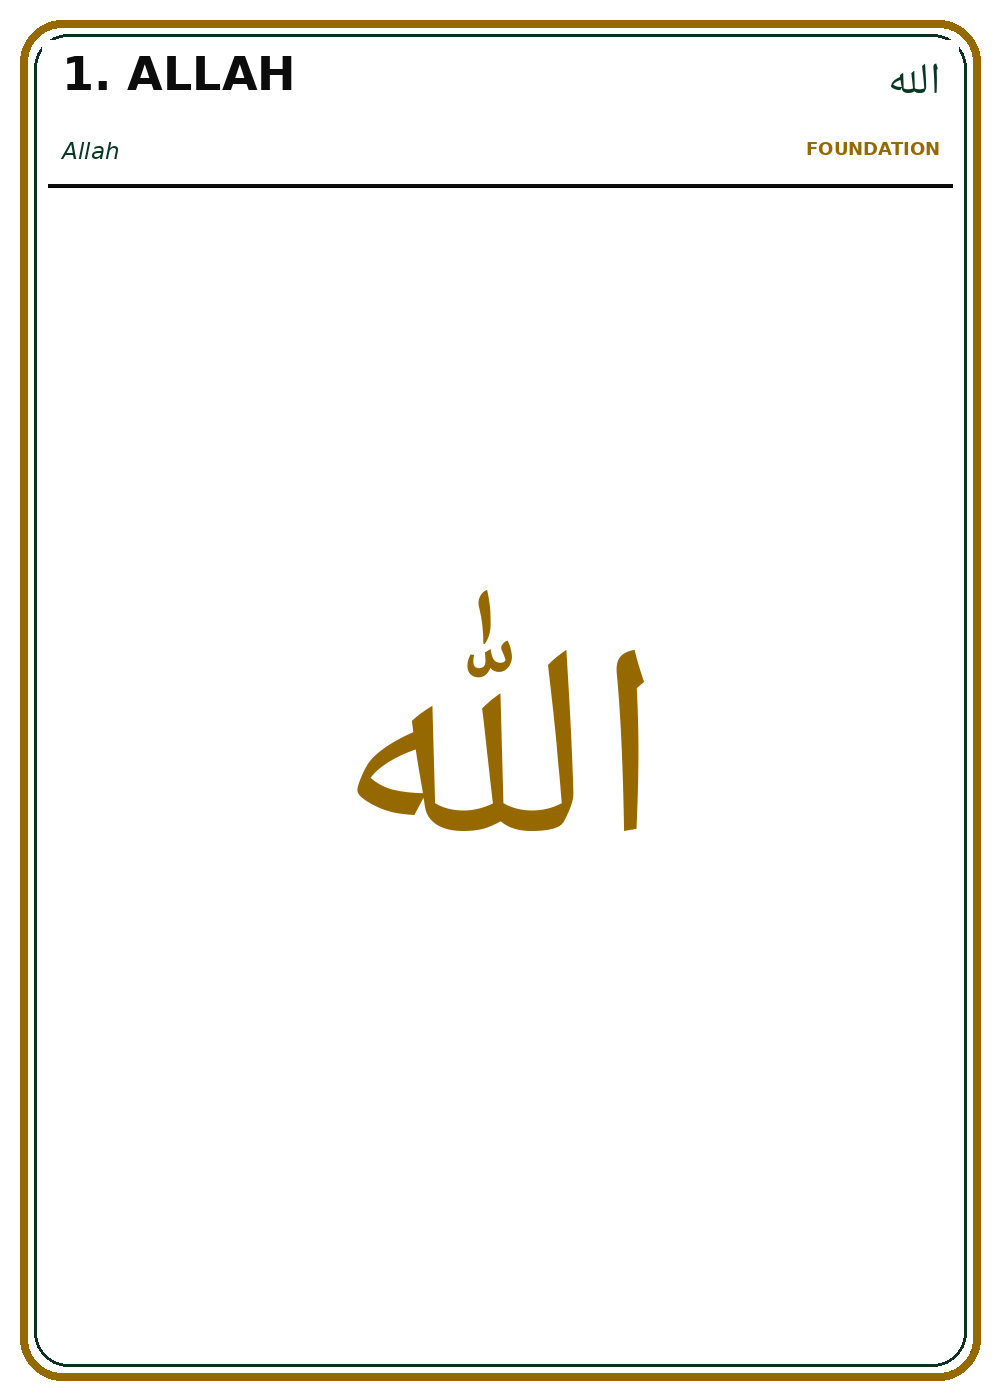
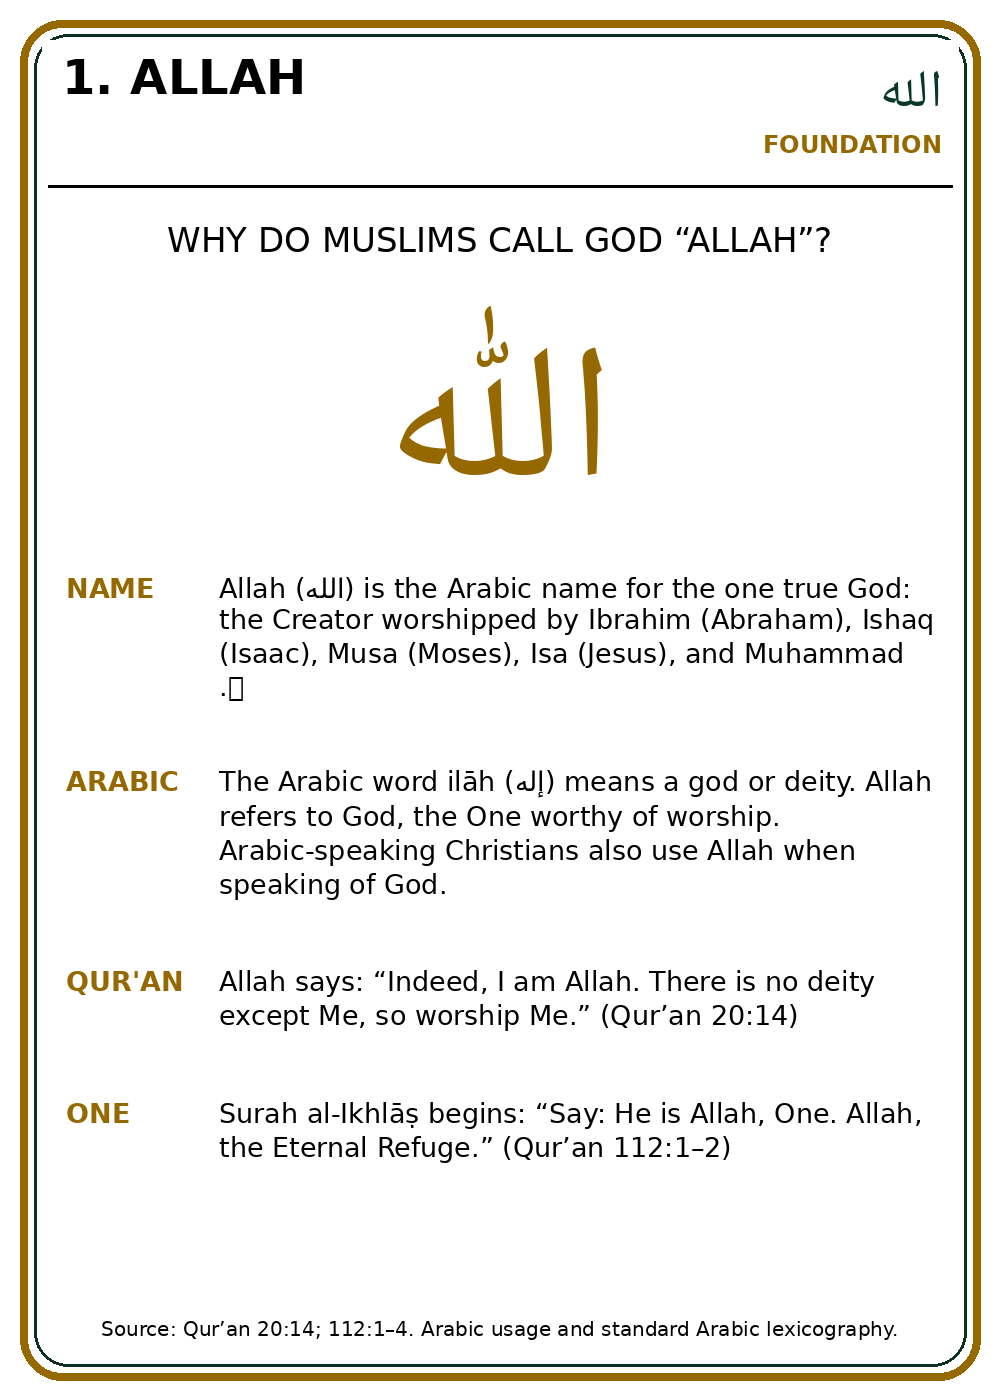
Expand Card 1 Allah foundation explanation

diff --git a/build_deck.py b/build_deck.py
@@ -213,9 +213,17 @@ def render_card(c):
     color=COLORS[c.get("color","black")]
     body_y,_,_=header_fixed(d,c["n"],c["title"],c.get("tag",""),color)
     if c.get("special_allah"):
-        af=F(FONT_AR,270); cy=(body_y+(H-60))//2
-        d.text((W//2,cy),"اللّٰه",font=af,fill=COLORS["gold"],anchor="mm",direction="rtl")
-        return img
+        has_explainer = any(c.get(k) for k in ("intro","bullets","note","source","meaning","translit","arabic"))
+        if not has_explainer:
+            af=F(FONT_AR,270); cy=(body_y+(H-60))//2
+            d.text((W//2,cy),"اللّٰه",font=af,fill=COLORS["gold"],anchor="mm",direction="rtl")
+            return img
+        c=dict(c)
+        c.setdefault("arabic","اللّٰه")
+        c.setdefault("ar_size",190)
+        c.setdefault("ar_min",170)
+        c.setdefault("ar_max_lines",1)
+        c["arabic_color"]=COLORS["gold"]
     source_reserve=95 if c.get("source") else 35
     note_reserve=118 if c.get("note") else 0
     content_bottom=H-source_reserve-note_reserve-24

diff --git a/docs/changelog.md b/docs/changelog.md
@@ -2,7 +2,7 @@
 
 ## v1.6.3 — Language reinforcement, access, and Sacred Places repair
 
-- Closed the v1.6.3 checkpoint at **207 numbered cards across five independent sets**.
+- Closed the v1.6.3 checkpoint at **208 numbered cards across five independent sets**.
 - Added the approved **Important Places Card 2: Chinguetti Mosque — Chinguetti, Mauritania**.
 - Expanded title bars across the card library to reinforce **English + Latin transliteration + Arabic** through repeated exposure while studying.
 - Repaired header collisions on Sacred Places Cards **1, 2, 4, 6, 10, 14, and 16** without changing their photographs, body text, borders, numbering, or category colors.
@@ -13,6 +13,8 @@
 - Added the project web-viewer port as another way to study the deck beyond the raw repository/card files.
 - Documented the successful **checkpointed repair workflow** in `docs/build-notes.md`: verify current main, isolate scope, repair locally, visually inspect, publish narrowly, verify, clean up, then continue.
 - Added a dedicated acknowledgment of Allah at the beginning of the project README using the basmalah, praise of Allah, and salawat upon the Messenger of Allah ﷺ.
+- Added **Card 00** as an unnumbered-on-artwork frontispiece displaying the Beautiful Names of Allah before the numbered lessons begin.
+- Expanded **Main Deck Card 1 — ALLAH** so the large gold name remains central while the card now explains why Muslims call God Allah, distinguishes *ilāh* from Allah, connects the name to the God worshipped by the prophets, and anchors the explanation in Qur’an 20:14 and Surah al-Ikhlāṣ.
 - **v1.6.4 is reserved for the next Important Places card.**
 
 ## v1.6 — Important Places begins
